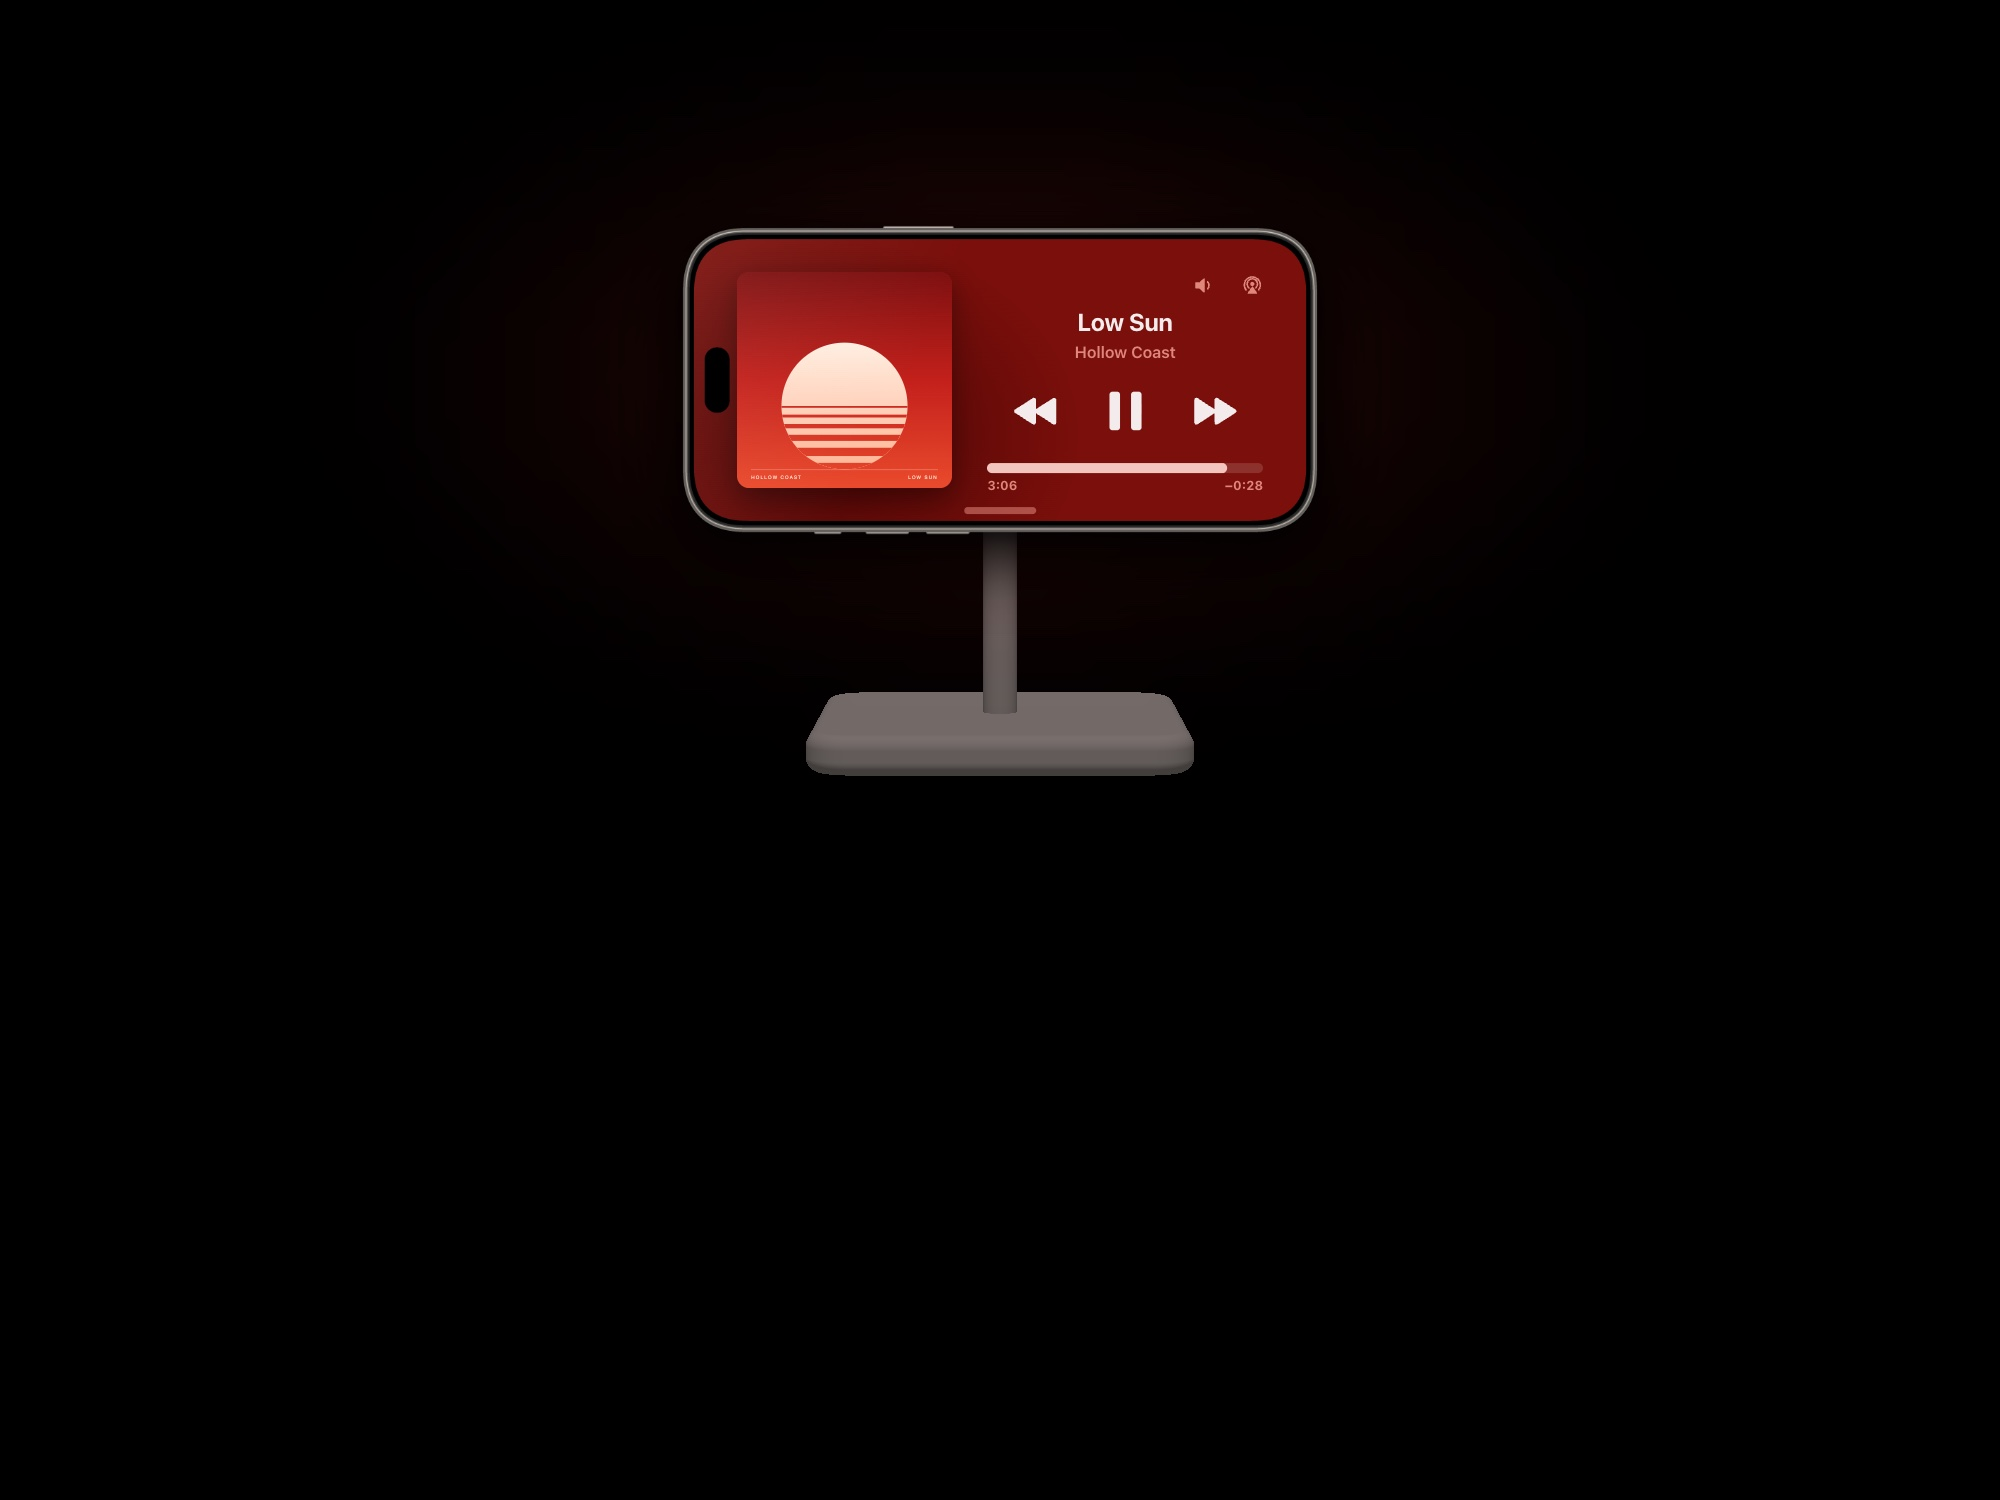
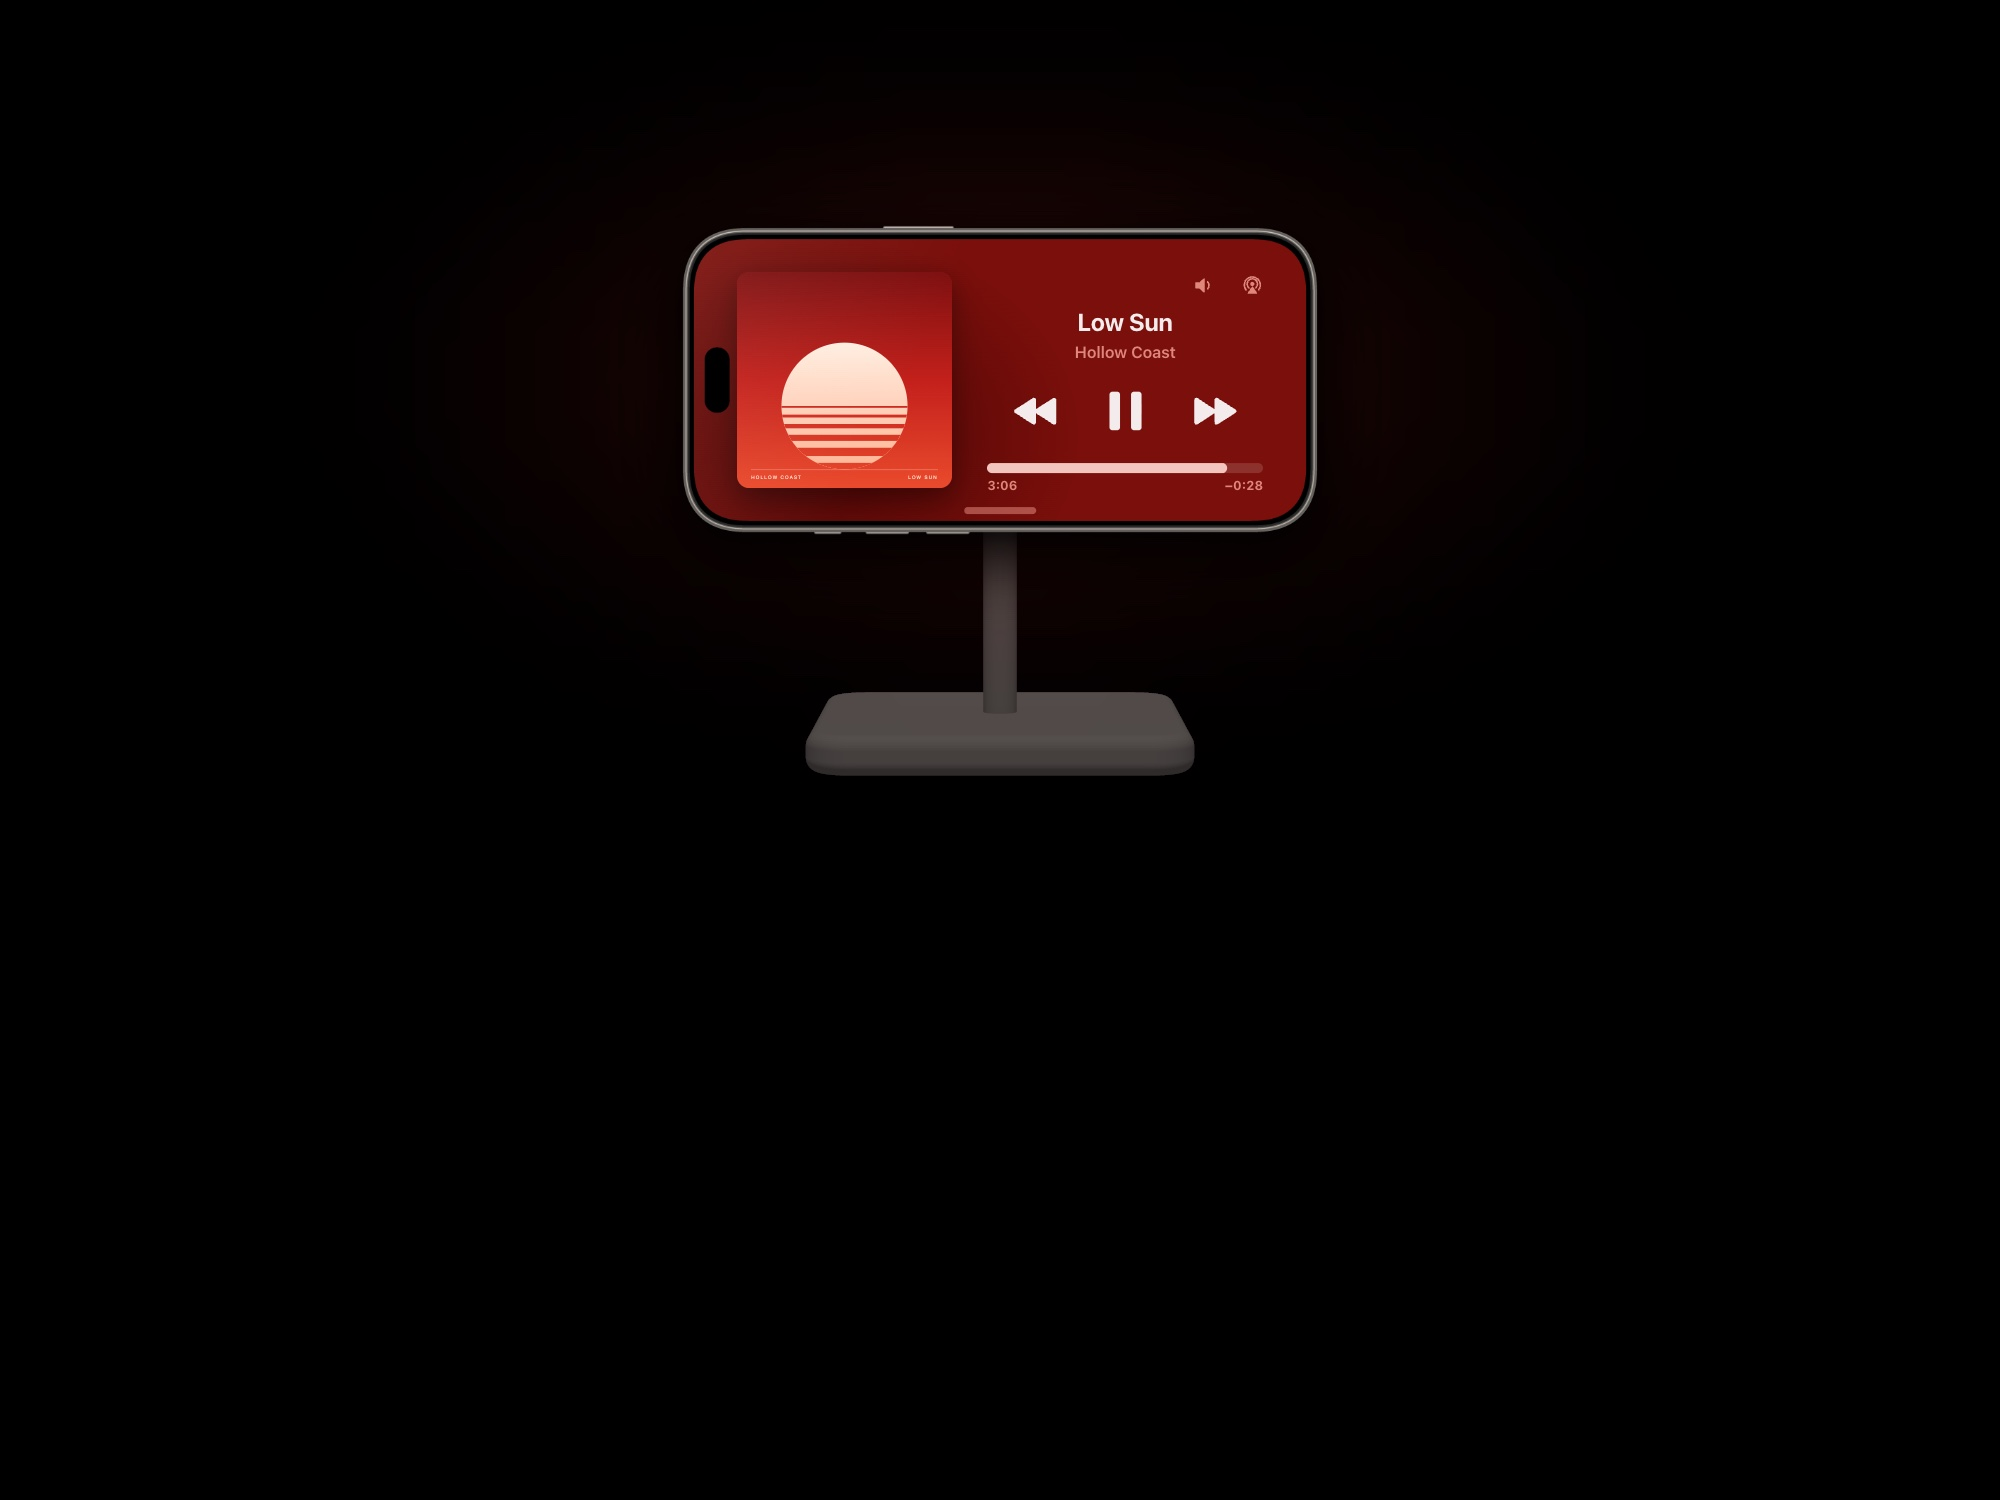
Home: the Second Chair slide's stand fainter and smooth-edged; its description is the app's own line

Changed region(s): [[0.403, 0.3987, 0.62, 0.5213]]

diff --git a/index.html b/index.html
@@ -38,7 +38,7 @@
           <div class="mwm-featured-meta">
             <div class="section-label section-label-dark">Featured project</div>
             <h2 class="h-display h-display-light" id="mwm-slide-title">Second Chair</h2>
-            <p class="body-copy body-copy-dark" id="mwm-slide-desc">Music on your Mac. Now Playing on your iPhone.</p>
+            <p class="body-copy body-copy-dark" id="mwm-slide-desc">A companion app for Apple Music, on Mac and iPhone.</p>
           </div>
           <div class="mwm-featured-bottom">
             <span class="btn-primary mwm-featured-btn" id="mwm-slide-btn">View project <svg class="ext-arrow" viewBox="0 0 10 10" fill="none" xmlns="http://www.w3.org/2000/svg"><path d="M1.5 8.5L8.5 1.5M8.5 1.5H3.5M8.5 1.5V6.5" stroke="currentColor" stroke-width="1" stroke-linecap="round" stroke-linejoin="round"/></svg></span>
@@ -166,7 +166,7 @@
       // ─── Featured slideshow + pills ───────────────────
       const SLIDE_MS = 8000;
       const slides = [
-        { image: 'assets/second-chair-slide.jpg', tall: 'assets/second-chair-slide-mobile.jpg', title: 'Second Chair', desc: 'Music on your Mac. Now Playing on your iPhone.', href: '/second-chair/', btn: 'View project' },
+        { image: 'assets/second-chair-slide.jpg', tall: 'assets/second-chair-slide-mobile.jpg', title: 'Second Chair', desc: 'A companion app for Apple Music, on Mac and iPhone.', href: '/second-chair/', btn: 'View project' },
         { image: 'assets/pivot-hero.jpg',                title: 'Pivot',             desc: 'Software for more flexible Home Assistant control.',  href: '/pivot/',                                                                                          btn: 'View project' },
         { image: 'assets/mwm-pivot-slide-lifestyle.jpg', title: 'Pivot Dial',        desc: 'A physical interface for Home Assistant.',                    href: '/pivot/#dial-intro',                                                                               btn: 'View project' },
         { image: 'assets/cubes.jpg',                     title: 'Qube Modular Lamp', desc: 'A modular bollard lamp system, free to print and build.',                      href: 'https://makerworld.com/en/models/1763478-modular-bollard-light-for-led-lamp-kit-001#profileId-1876265', btn: 'View on Makerworld' },

diff --git a/second-chair/_docs/slide.html b/second-chair/_docs/slide.html
@@ -18,7 +18,7 @@
           background: radial-gradient(closest-side, rgba(200, 40, 28, .32), rgba(150, 22, 16, .12) 55%, transparent);
           filter: blur(60px); z-index: -2; }
   /* The charging stand: rendered by devices/stand.py on black, added with screen so black adds nothing. */
-  .stand { position: absolute; inset: 0; background: url("devices/stand-mobile.png") 0 0 / 100% 100% no-repeat; mix-blend-mode: screen; z-index: -1; }
+  .stand { position: absolute; inset: 0; background: url("devices/stand-mobile.png") 0 0 / 100% 100% no-repeat; mix-blend-mode: screen; opacity: .7; z-index: -1; }
   .desktop .stand { background-image: url("devices/stand-desktop.png"); }
   .hero .hero-standby { position: absolute; left: 50%; top: 380px; width: 640px; transform: translate(-50%, -50%); right: auto; bottom: auto; margin: 0;
           --phone-drop: drop-shadow(0 3cqw 5cqw rgba(0, 0, 0, .85)) drop-shadow(0 .8cqw 1.4cqw rgba(0, 0, 0, .6)); }

diff --git a/second-chair/_docs/devices/stand.py b/second-chair/_docs/devices/stand.py
@@ -110,16 +110,16 @@ def base_blocks(p, q):
     return (tmax > np.maximum(tmin, 1e-4)) & (tmin < 1)
 
 
+SS = 4   # samples per pixel along each axis: rendered at 4x, averaged down, so edges are smooth
+
+
 def render(layout):
     L = LAYOUTS[layout]
-    W, H = L['size']
-    s = L['phone_px'] / PHONE_W                  # px per mm at the phone's plane
+    W, H = L['size'][0] * SS, L['size'][1] * SS
+    s = L['phone_px'] * SS / PHONE_W             # px per mm at the phone's plane
     f = s * CAM_D
-    cx, cy = L['centre']
+    cx, cy = L['centre'][0] * SS, L['centre'][1] * SS
     cam = np.array([0.0, 0.0, CAM_D])
-    ys, xs = np.mgrid[0:H, 0:W].astype(float)
-    dirs = np.stack([(xs + .5 - cx) / f, -(ys + .5 - cy) / f, -np.ones_like(xs)], -1)
-    dirs /= np.linalg.norm(dirs, axis=-1, keepdims=True)
     img = np.zeros((H, W, 3))
 
     # The stand: sphere-traced only inside its bounding box on screen.
@@ -129,7 +129,11 @@ def render(layout):
                for z in (BASE_Z - BASE_HALF - 2, BASE_Z + BASE_HALF + 2)]
     x0, x1 = int(min(c[0] for c in corners)) - 2, int(max(c[0] for c in corners)) + 3
     y0, y1 = int(min(c[1] for c in corners)) - 2, int(max(c[1] for c in corners)) + 3
-    sub = dirs[y0:y1, x0:x1]
+    x0, y0 = x0 // SS * SS, y0 // SS * SS
+    x1, y1 = -(-x1 // SS) * SS, -(-y1 // SS) * SS
+    ys, xs = np.mgrid[y0:y1, x0:x1].astype(float)
+    sub = np.stack([(xs + .5 - cx) / f, -(ys + .5 - cy) / f, -np.ones_like(xs)], -1)
+    sub /= np.linalg.norm(sub, axis=-1, keepdims=True)
     tt = np.full(sub.shape[:-1], CAM_D - 200.0)
     alive = np.ones(sub.shape[:-1], bool)
     hit = np.zeros(sub.shape[:-1], bool)
@@ -153,9 +157,10 @@ def render(layout):
     col = albedo * (key + amb)[:, None] * np.array([1.0, 0.86, 0.82])
     patch = img[y0:y1, x0:x1]
     patch[hit] = col
-    # A soft contact shadow where the base meets the table.
     img[y0:y1, x0:x1] = patch
 
+    # Average each SS x SS block in linear light, then encode.
+    img = img.reshape(H // SS, SS, W // SS, SS, 3).mean(axis=(1, 3))
     out = np.clip(img, 0, 1) ** (1 / 2.2)
     return Image.fromarray((out * 255 + .5).astype(np.uint8))
 
